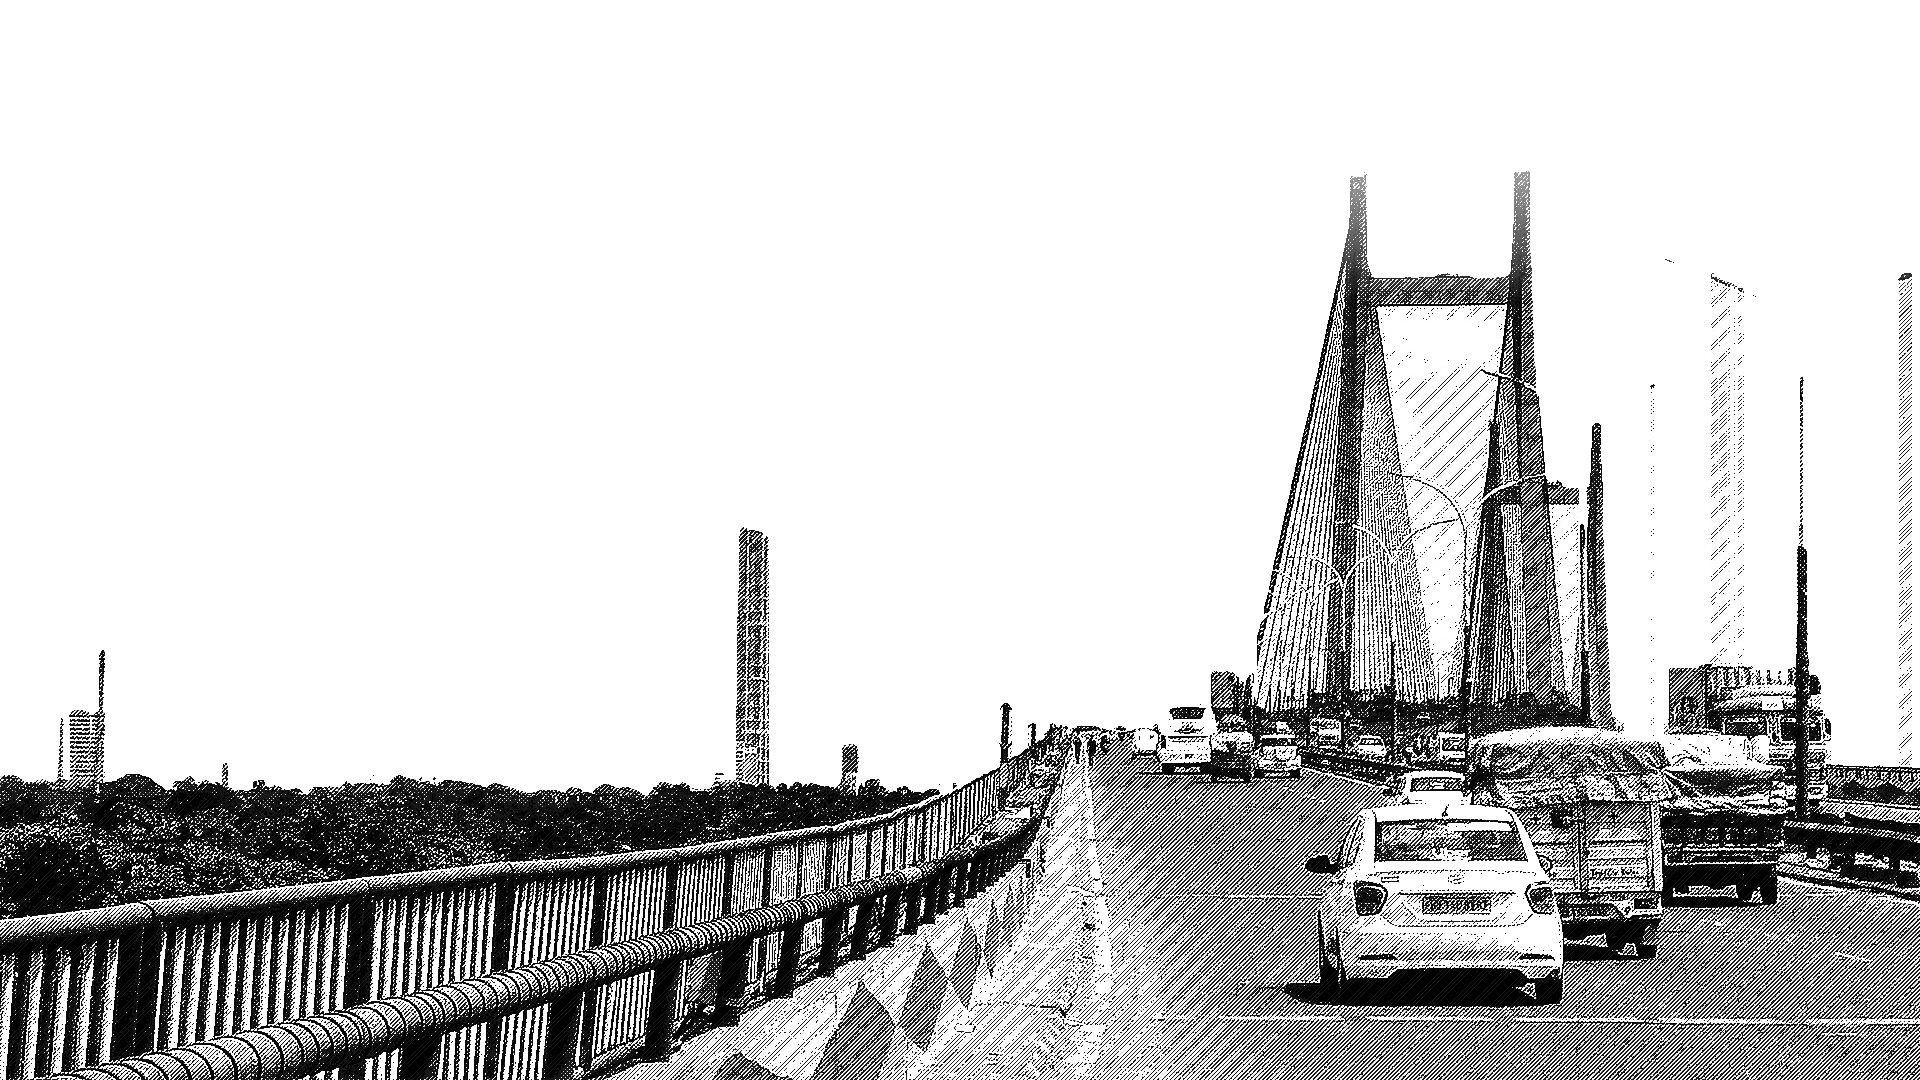
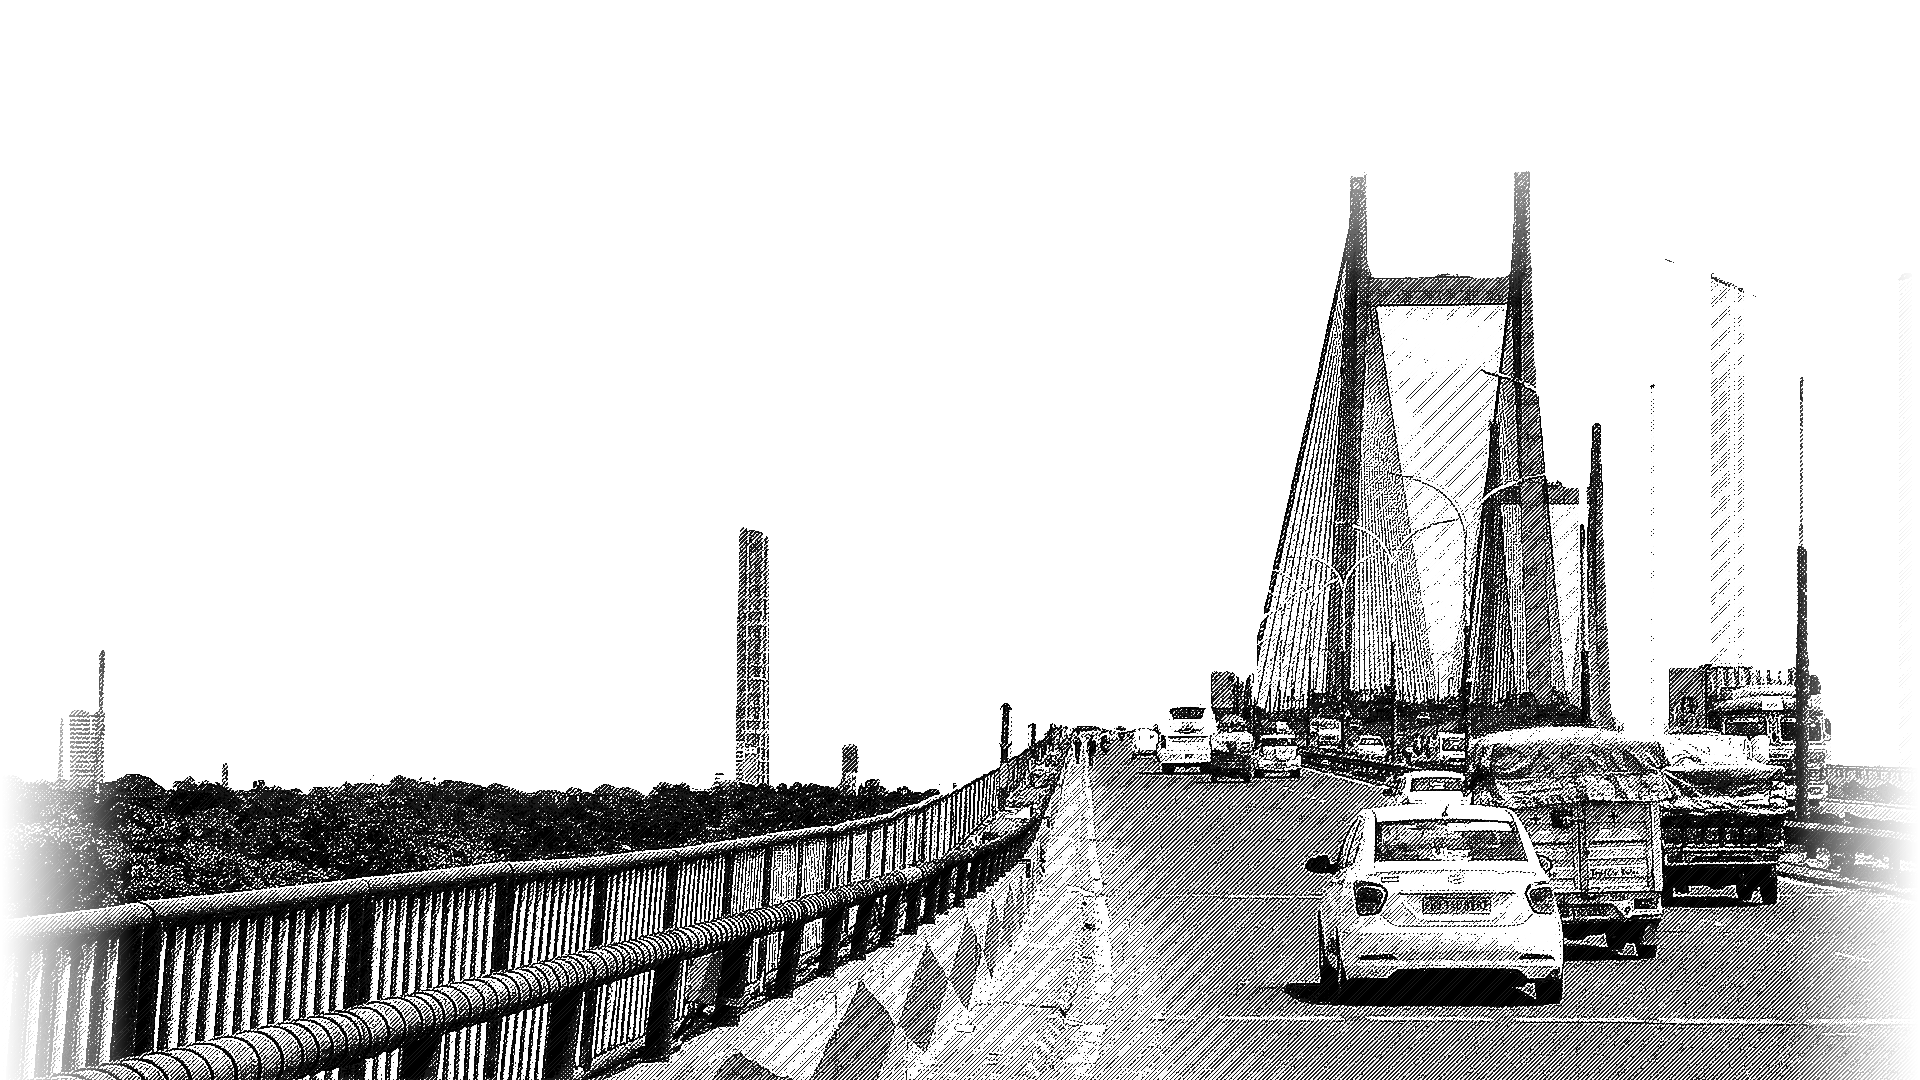
footer: show the whole Kolkata drawing, sky tucked under the text
The art kept a fixed height and cropped with 'cover', so on wide screens
only the bridge towers were left. It now keeps the drawing's aspect ratio
(capped at 1800px, soft side edges), slides its empty sky up under the
footer text, and moves the credit below it.

Claude-Session: https://claude.ai/code/session_019KRNvX3sv1RFNMp6xrYnj7

Changed region(s): [[0.9375, 0.55, 1.0, 1.0], [0.0, 0.6417, 0.0625, 1.0]]

diff --git a/src/app/globals.css b/src/app/globals.css
@@ -250,7 +250,7 @@ html[data-theme="dark"] .pf-pr-landed{color:#a371f7}
 
 /* Site footer: text, then a full-width ink illustration (CSS mask painted with --ink) */
 .pf-footer{position:relative;z-index:1;margin-top:clamp(56px,9vw,96px)}
-.pf-footer-top{max-width:1100px;margin:0 auto;padding:28px 24px 0;border-top:1px solid var(--line);display:flex;flex-wrap:wrap;justify-content:space-between;gap:28px 48px}
+.pf-footer-top{position:relative;z-index:1;max-width:1100px;margin:0 auto;padding:28px 24px 0;border-top:1px solid var(--line);display:flex;flex-wrap:wrap;justify-content:space-between;gap:28px 48px}
 .pf-footer-intro{max-width:360px;display:flex;flex-direction:column;gap:8px}
 .pf-footer-name{font-weight:700;font-size:20px;letter-spacing:-0.02em;color:var(--ink)}
 .pf-footer-intro p{margin:0;color:var(--muted);font-size:14.5px;line-height:1.55}
@@ -260,8 +260,10 @@ html[data-theme="dark"] .pf-pr-landed{color:#a371f7}
 .pf-footer-coltitle{font-weight:600;font-size:15px;color:var(--ink)}
 .pf-footer-cols a{color:var(--muted);font-size:14px;text-decoration:none;display:inline-block;max-width:240px}
 .pf-footer-cols a:hover{color:var(--text);text-decoration:underline;text-decoration-color:var(--faint)}
-.pf-footer-artwrap{position:relative;margin-top:clamp(8px,3vw,32px)}
-.pf-footer-art{height:clamp(260px,45vw,680px);background:var(--ink);-webkit-mask:url(/footer-ink.png) 72% 30%/cover no-repeat;mask:url(/footer-ink.png) 72% 30%/cover no-repeat}
-.pf-footer-credit{position:absolute;top:8px;left:16px;margin:0;font-size:11px;color:var(--faint)}
+/* The whole drawing is shown (aspect ratio of footer-ink.png), centred and
+   capped on very wide screens; its empty sky slides up under the text. */
+.pf-footer-artwrap{position:relative;width:min(100%,1800px);margin:max(-150px,-8vw) auto 0}
+.pf-footer-art{aspect-ratio:1920/1080;background:var(--ink);-webkit-mask:url(/footer-ink.png) 50% 100%/100% 100% no-repeat;mask:url(/footer-ink.png) 50% 100%/100% 100% no-repeat}
+.pf-footer-credit{margin:0;padding:10px 16px 88px;text-align:center;font-size:11px;color:var(--faint)}
 .pf-footer-credit a{color:inherit}
-@media (max-width:600px){.pf-footer-cols{display:grid;grid-template-columns:1fr 1.4fr;gap:20px 24px;width:100%}.pf-footer-cols a{font-size:13.5px}.pf-footer-art{height:clamp(260px,78vw,340px)}}
+@media (max-width:600px){.pf-footer-cols{display:grid;grid-template-columns:1fr 1.4fr;gap:20px 24px;width:100%}.pf-footer-cols a{font-size:13.5px}.pf-footer-artwrap{margin-top:16px}.pf-footer-art{aspect-ratio:auto;height:clamp(240px,70vw,320px);-webkit-mask-position:72% 100%;mask-position:72% 100%;-webkit-mask-size:cover;mask-size:cover}}
